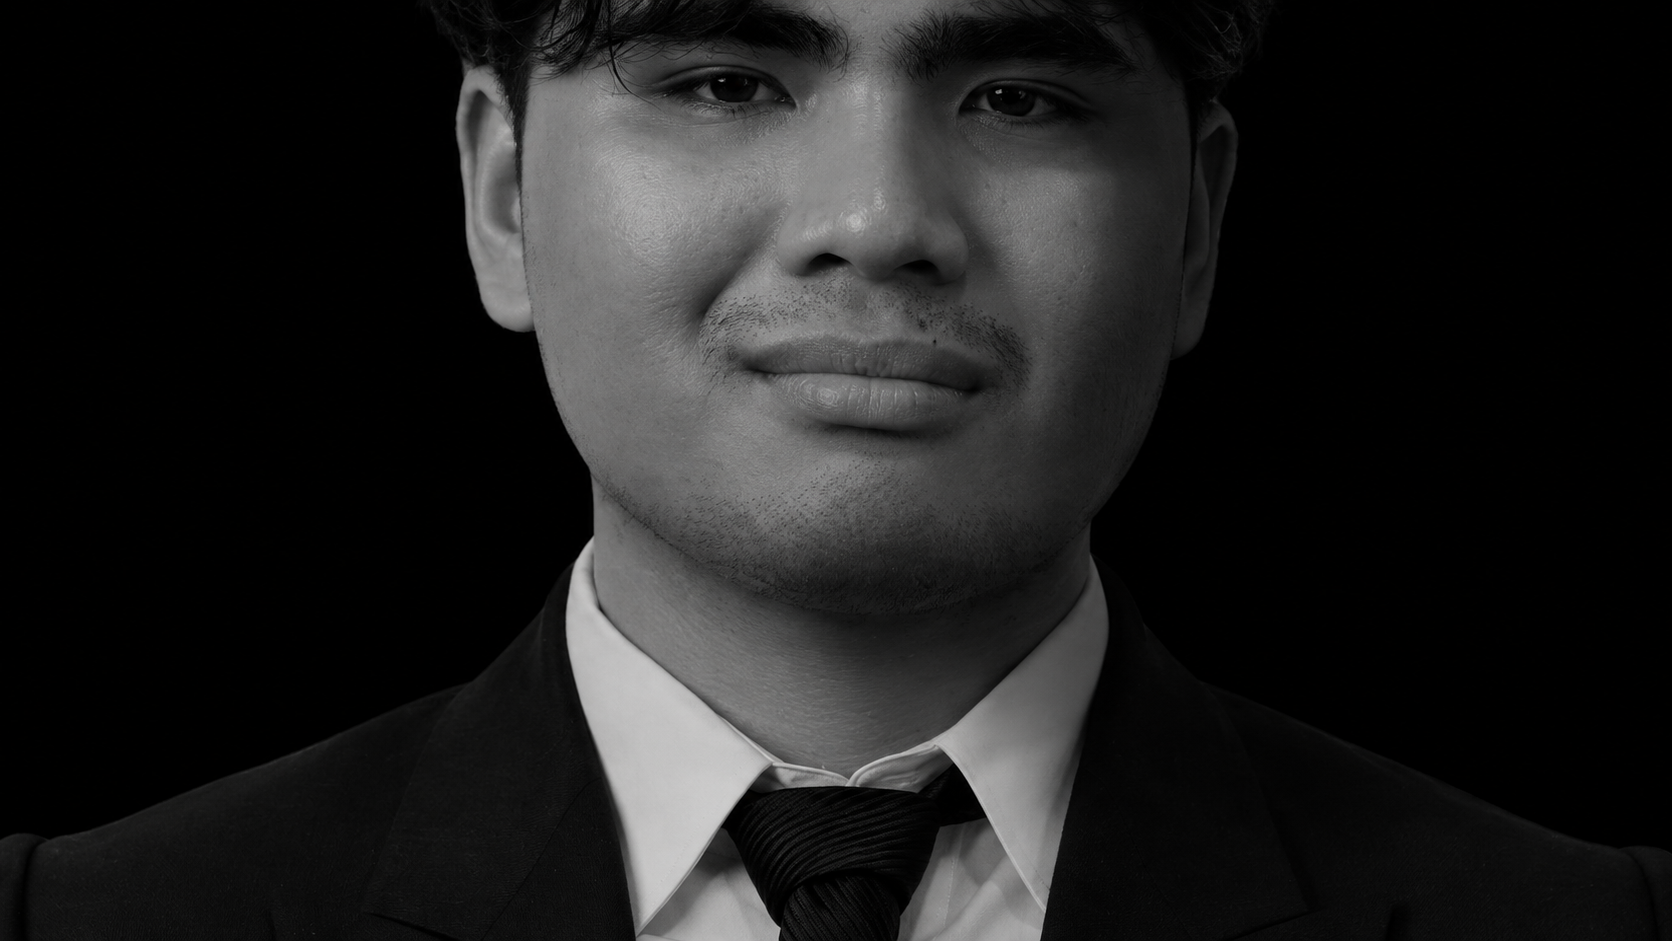
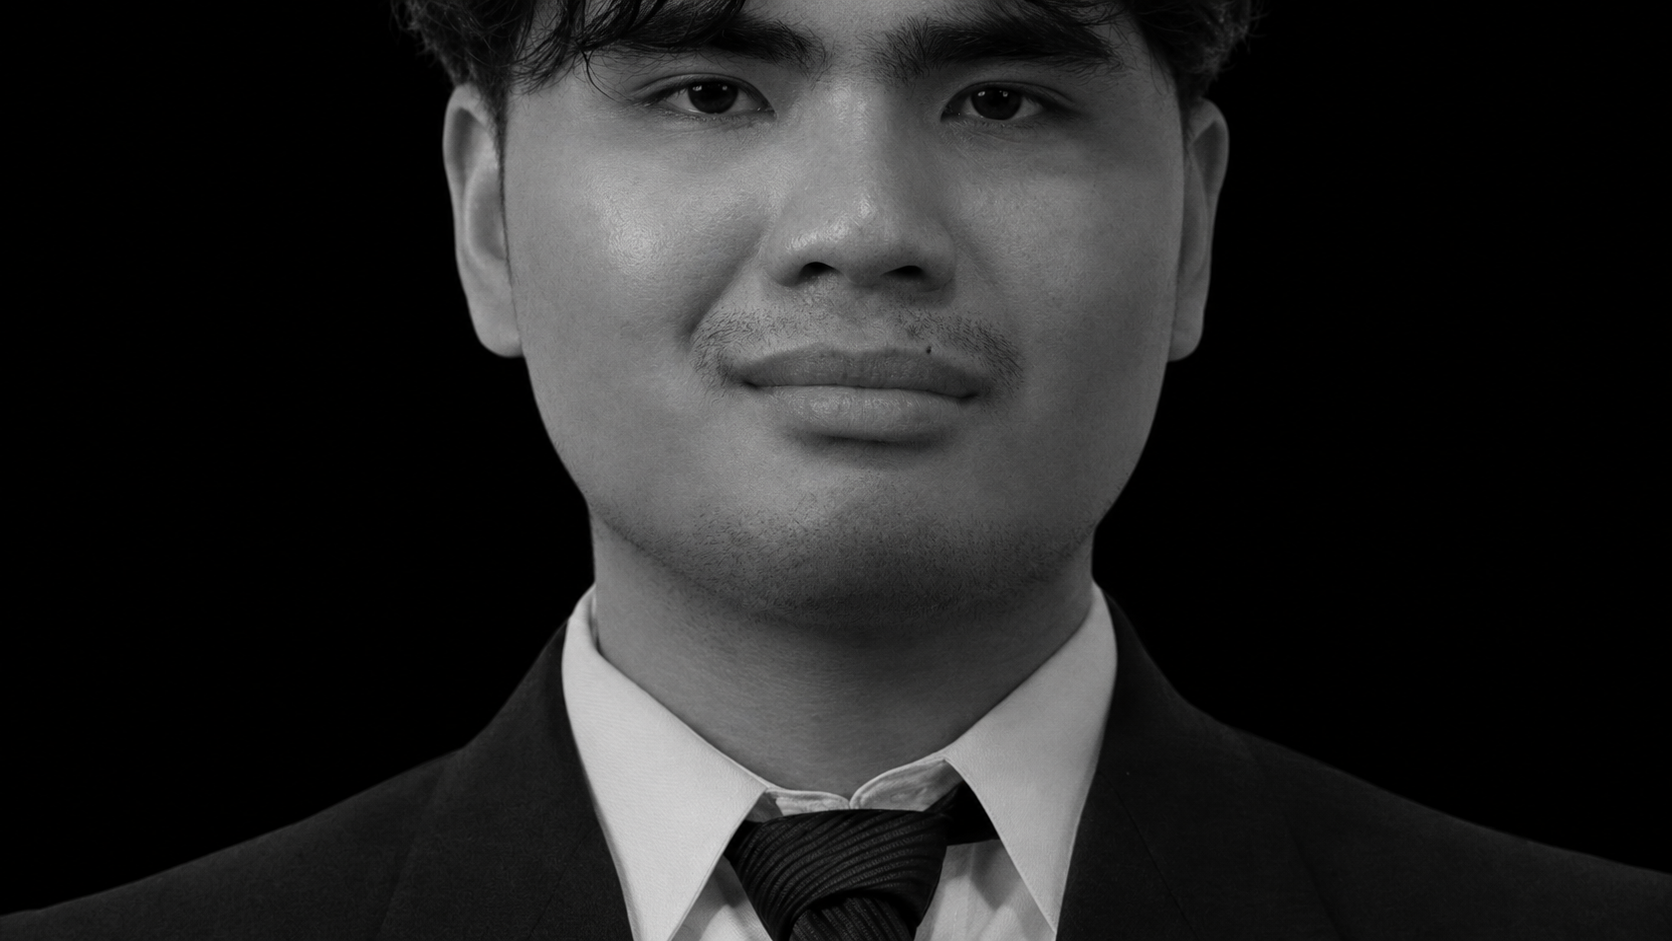
New Portrait

diff --git a/resources/css/portfolio.css b/resources/css/portfolio.css
@@ -111,6 +111,7 @@ body, .project-entry, .about-panel, .resume-paper, .credential-group, .navigatio
 .hero-circuit-die { fill: #b3c3ca0e; stroke: #b3c3ca38; }
 .hero-circuit-etch { fill: none; stroke: #b3c3ca4d; stroke-linecap: round; }
 .hero-circuit-index { fill: #b3c3ca9c; }
+.hero-mobile-traces { display: none; }
 .hero-bubbles { position: absolute; inset: 0; width: 100%; height: 100%; pointer-events: none; }
 .bubble-template { display: none; }
 .bubble-ring, .bubble-cursor, .bubble-rays, .bubble-lasso { fill: none; stroke: #d5fff5; stroke-width: 1.5; stroke-linecap: round; }
@@ -123,8 +124,19 @@ body, .project-entry, .about-panel, .resume-paper, .credential-group, .navigatio
 @media (max-width: 47.99rem) {
     .hero-portrait-wide img { inset-block-start: 1.5rem; height: 50%; object-position: center top; mask-image: linear-gradient(180deg, transparent, #000 10%); }
     .hero-portrait-wide::after { background: linear-gradient(180deg, #080808ba, transparent 18%, transparent 32%, #080808 53%); }
-    .hero-traces { inset: auto -1.25rem 49% auto; width: clamp(12rem, 56vw, 19rem); }
-    .hero-traces svg { opacity: 0.67; }
+    .hero-traces { display: none; }
+    .hero-mobile-traces {
+        display: block;
+        position: absolute;
+        inset: auto -1px 100% auto;
+        width: clamp(6rem, 31vw, 7.75rem);
+        fill: none;
+        stroke: #b3c3ca80;
+        stroke-linecap: round;
+        stroke-linejoin: round;
+        pointer-events: none;
+    }
+    .hero-mobile-traces :is(path, circle) { vector-effect: non-scaling-stroke; }
     .hero-copy { background: #101010d9; }
 }
 .hero-name { color: #dedede; font-size: 0.76rem; font-weight: 650; letter-spacing: 0.17em; line-height: 1.5; text-transform: uppercase; }

diff --git a/resources/views/pages/portfolio/⚡home.blade.php b/resources/views/pages/portfolio/⚡home.blade.php
@@ -69,6 +69,11 @@ new #[Layout('layouts::portfolio')] class extends Component
         </svg>
         <div class="hero-inner page-container">
             <div class="hero-copy">
+                <svg class="hero-mobile-traces" viewBox="0 0 124 34" aria-hidden="true" focusable="false">
+                    <path d="M123.5 33.5H97L82 18H57 M123.5 25.5H103L82 5H27"/>
+                    <circle cx="54" cy="18" r="3"/>
+                    <circle cx="24" cy="5" r="3"/>
+                </svg>
                 <p class="hero-name">{{ $profile['name'] }}</p>
                 <h1 id="intro-heading">
                     @foreach ($profile['hero_lines'] as $line)
